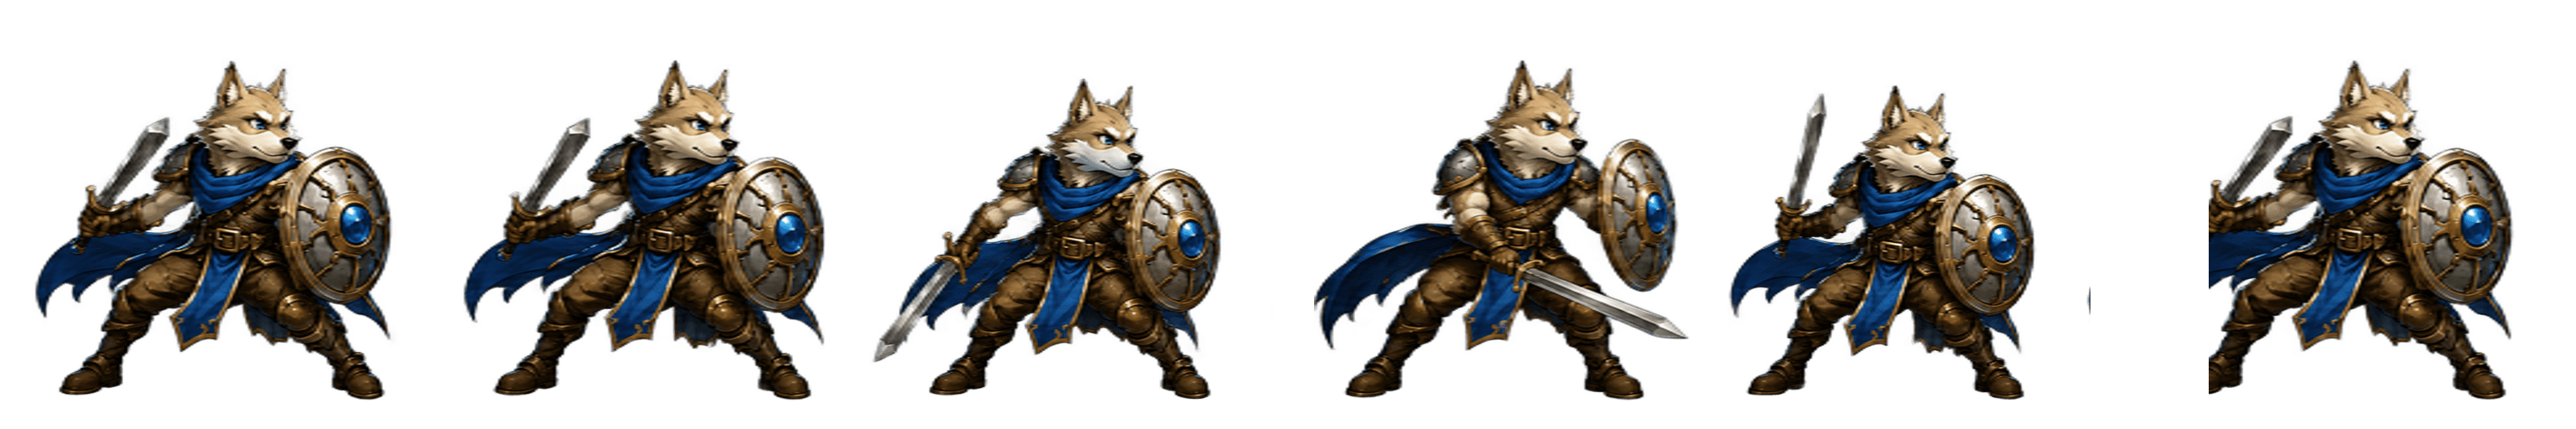
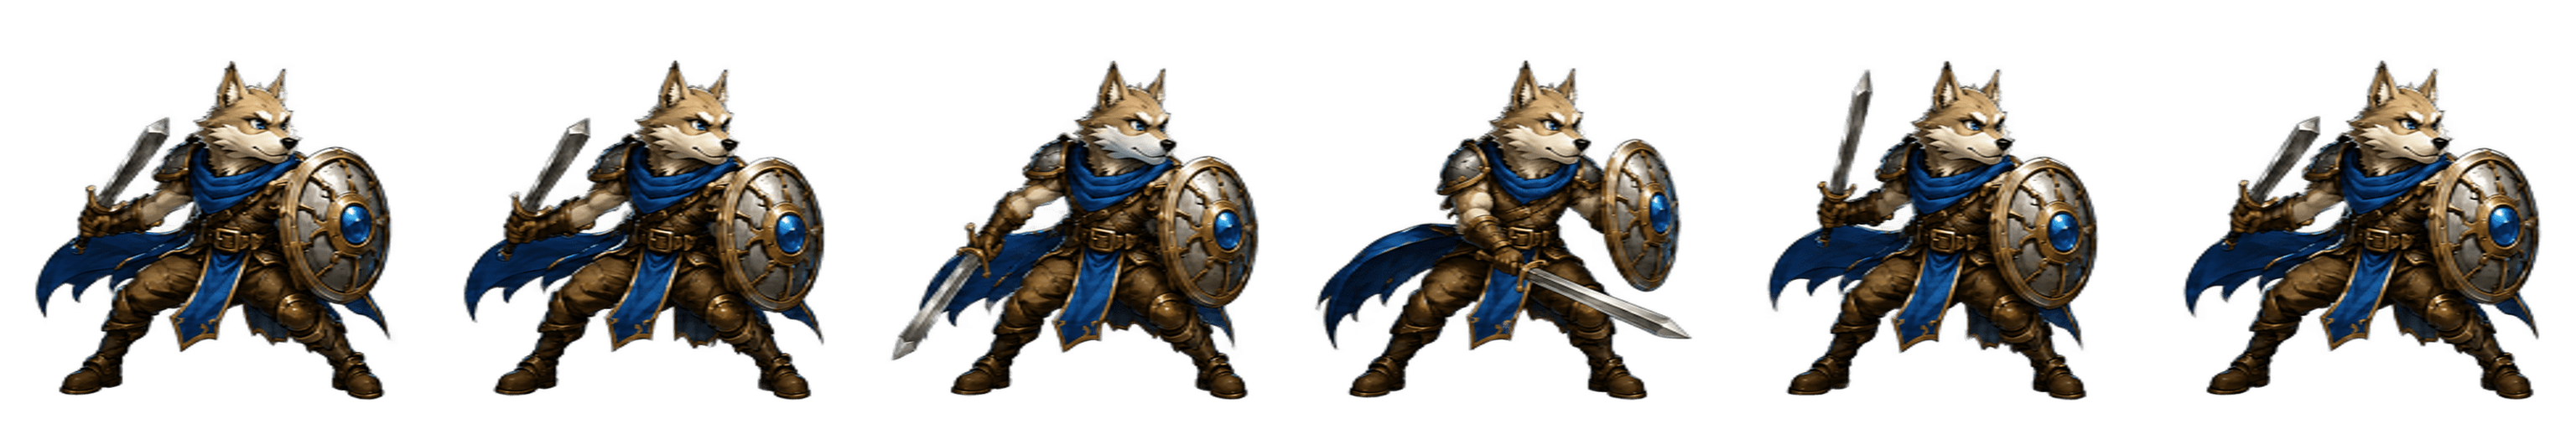
Implement structural updates and optimizations across multiple modules

Changed region(s): [[0.3125, 0.1562, 0.8125, 0.9375], [0.8438, 0.1562, 1.0, 0.9375]]

diff --git a/src/game/data/heroes.js b/src/game/data/heroes.js
@@ -38,15 +38,6 @@ export const HEROES = [
         repeat: -1,
         yoyo: true
       },
-      idleSharpen: {
-        sheet: '/characters/heroes/kael-guardaluna/animations/idle-sharpen.png',
-        frameWidth: 512,
-        frameHeight: 512,
-        frames: 6,
-        frameRate: 5,
-        repeat: -1,
-        yoyo: true
-      },
       attack: {
         label: 'Salto golpe',
         sheet: '/characters/heroes/kael-guardaluna/animations/attack-jump-strike.png',
@@ -55,23 +46,6 @@ export const HEROES = [
         frames: 6,
         frameRate: 14,
         repeat: 0
-      },
-      hit: {
-        sheet: '/characters/heroes/kael-guardaluna/animations/hit.png',
-        frameWidth: 512,
-        frameHeight: 512,
-        frames: 6,
-        frameRate: 12,
-        repeat: 0
-      },
-      defeat: {
-        sheet: '/characters/heroes/kael-guardaluna/animations/defeat.png',
-        frameWidth: 512,
-        frameHeight: 512,
-        frames: 6,
-        frameRate: 9,
-        repeat: 0,
-        holdLastFrame: true
       }
     },
     description: 'Defensa firme, mirada fría y golpes seguros.',